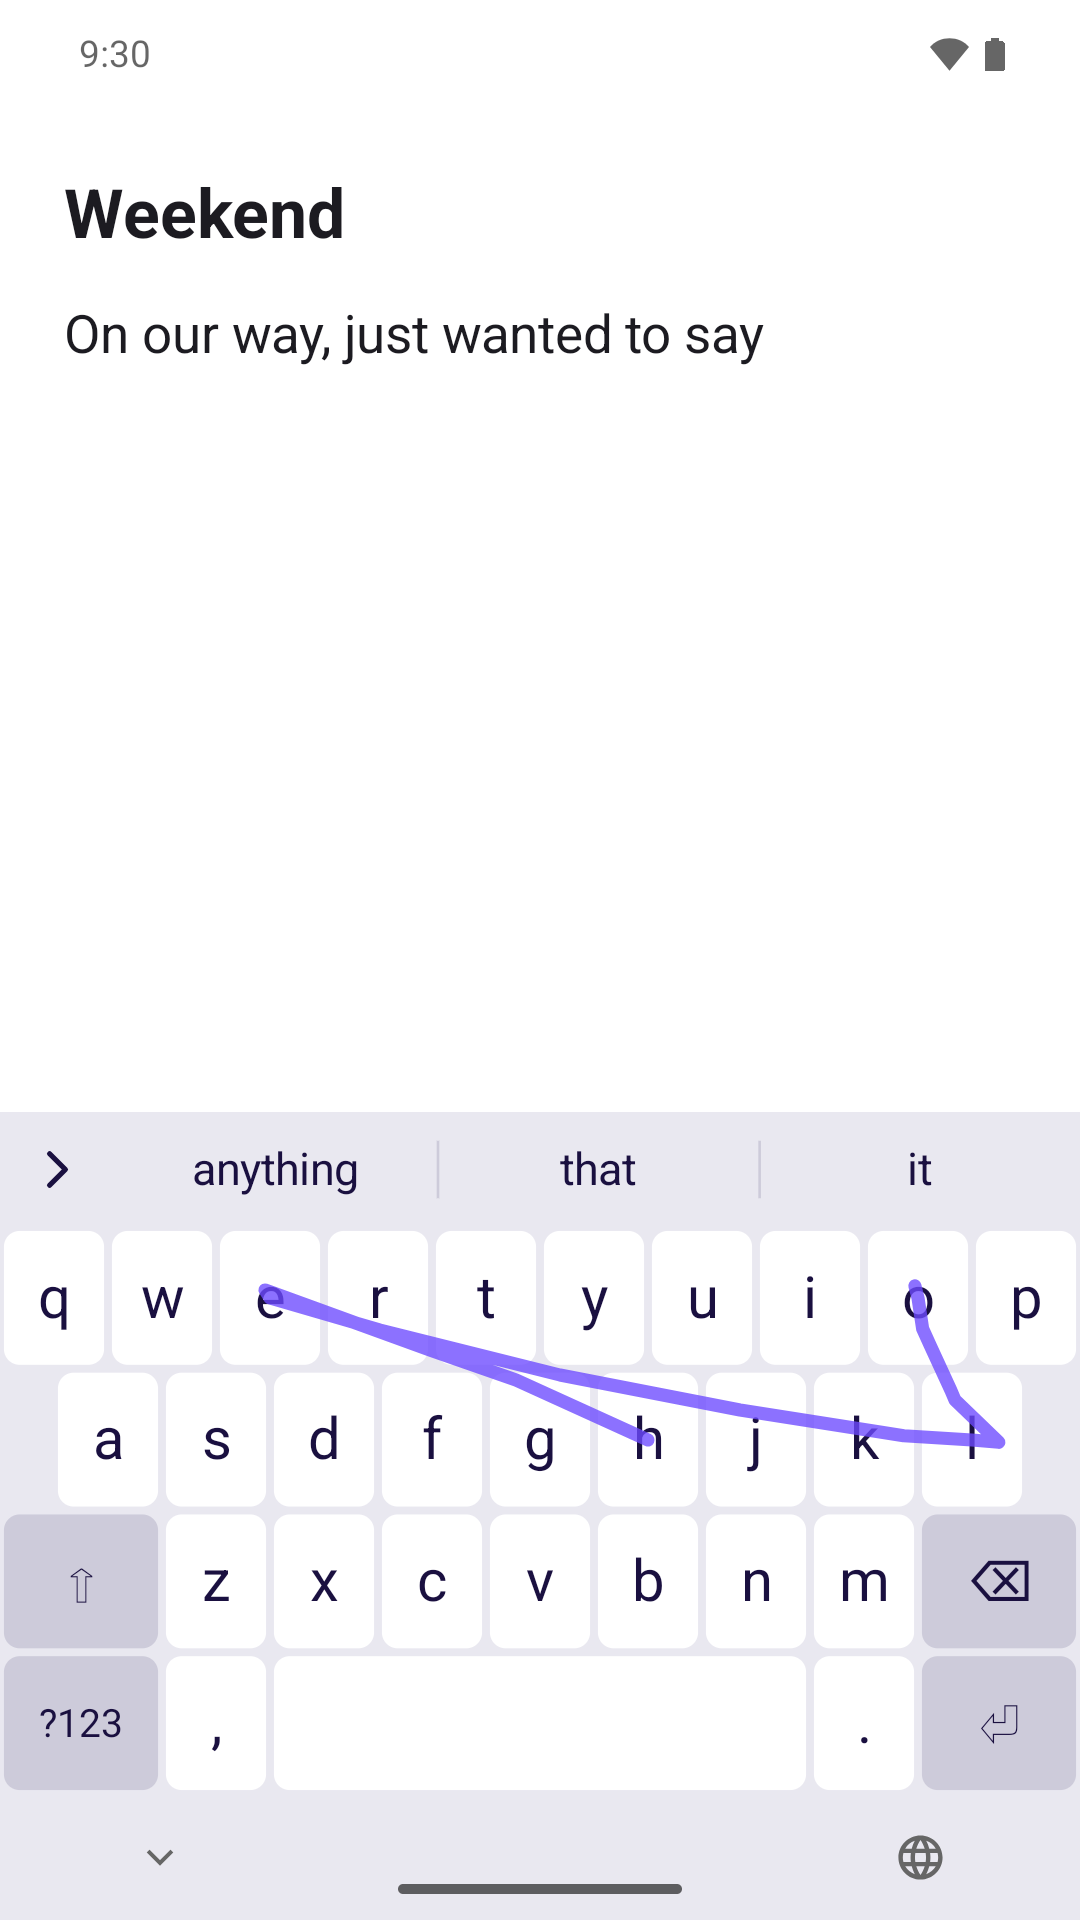
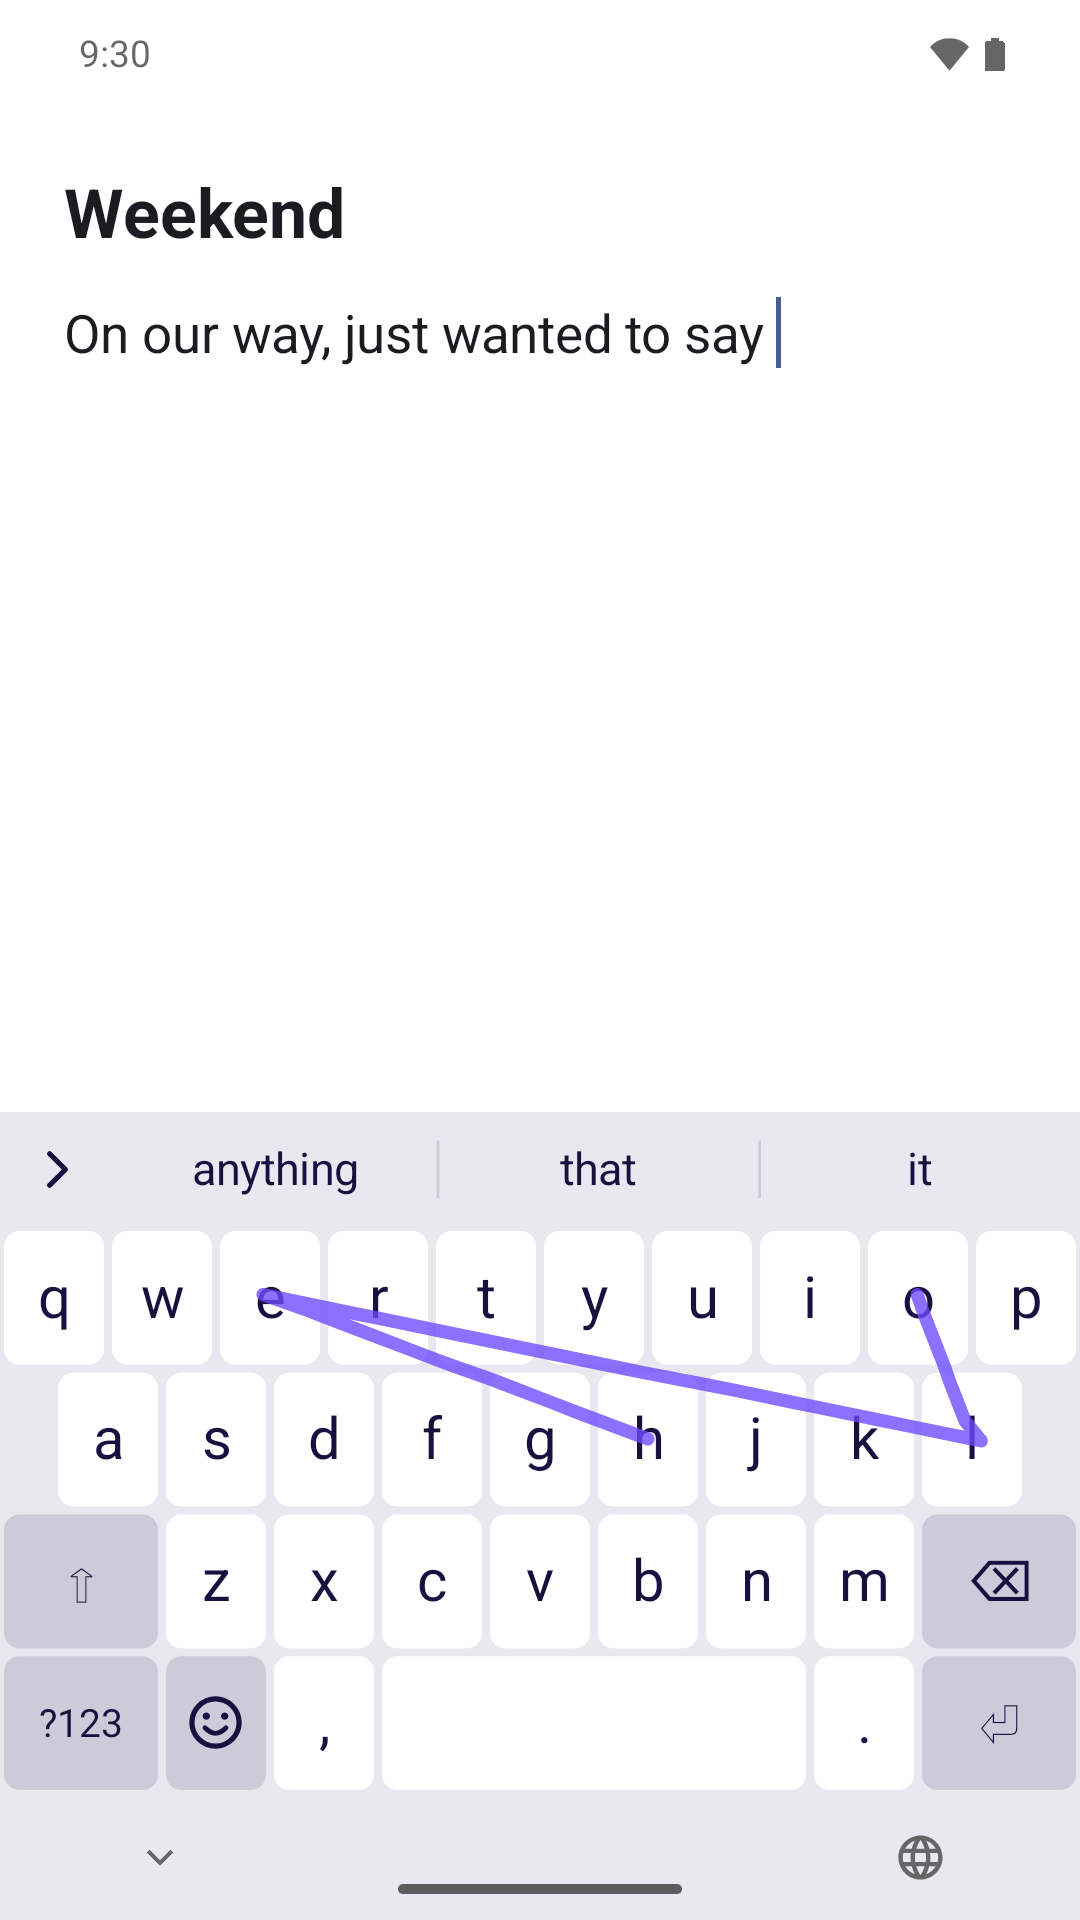
0.2.2
Snapshot-Of: keyboard@83480f55ba72d6fc2c3aac5627741e8057a2f20d

Changed region(s): [[0.3056, 0.6562, 0.9167, 0.75], [0.1528, 0.8438, 0.2444, 0.9375], [0.7028, 0.1562, 0.7333, 0.1875]]

diff --git a/android/app/src/main/kotlin/com/pingolin/keyboard/EmojiQueryView.kt b/android/app/src/main/kotlin/com/pingolin/keyboard/EmojiQueryView.kt
@@ -1,0 +1,92 @@
+// SPDX-FileCopyrightText: 2026 Pingolin LLC
+// SPDX-License-Identifier: GPL-3.0-or-later
+
+package com.pingolin.keyboard
+
+import android.annotation.SuppressLint
+import android.content.Context
+import android.graphics.Canvas
+import android.graphics.Paint
+import android.view.MotionEvent
+import android.view.accessibility.AccessibilityNodeInfo
+import android.widget.EditText
+import android.widget.TextView
+
+/**
+ * What is typed into the search over emoji, with a cursor. A tap or a drag
+ * moves it. Not an EditText: the keyboard's window never has the focus one
+ * needs, and the keys write into [EmojiQuery].
+ */
+@SuppressLint("ViewConstructor") // only EmojiSearchBar creates it, in code
+class EmojiQueryView(context: Context, private val onCursor: (Int) -> Unit) : TextView(context) {
+    private val caret = Paint()
+    private val caretWidth = CARET_DP * resources.displayMetrics.density
+    private var cursor = 0
+    private var blinkOn = true
+    private val blink = object : Runnable {
+        override fun run() {
+            blinkOn = !blinkOn
+            invalidate()
+            postDelayed(this, BLINK_MS)
+        }
+    }
+
+    fun setCaretColor(color: Int) {
+        caret.color = color
+    }
+
+    /** Shows [typed] with the cursor at [cursor]. */
+    fun show(typed: String, cursor: Int) {
+        if (typed != text.toString()) text = typed
+        this.cursor = cursor
+        restartBlink()
+    }
+
+    /** On at once after every change, so it is seen to move. */
+    private fun restartBlink() {
+        removeCallbacks(blink)
+        blinkOn = true
+        invalidate()
+        if (isShown) postDelayed(blink, BLINK_MS)
+    }
+
+    override fun onVisibilityAggregated(isVisible: Boolean) {
+        super.onVisibilityAggregated(isVisible)
+        if (isVisible) restartBlink() else removeCallbacks(blink)
+    }
+
+    override fun onDraw(canvas: Canvas) {
+        super.onDraw(canvas)
+        val line = layout ?: return
+        if (!blinkOn) return
+        val x = totalPaddingLeft + line.getPrimaryHorizontal(cursor.coerceIn(0, line.text.length))
+        val top = totalPaddingTop + line.getLineTop(0)
+        val bottom = totalPaddingTop + line.getLineBottom(0)
+        canvas.drawRect(x - caretWidth / 2, top.toFloat(), x + caretWidth / 2, bottom.toFloat(), caret)
+    }
+
+    override fun onTouchEvent(event: MotionEvent): Boolean {
+        when (event.actionMasked) {
+            MotionEvent.ACTION_DOWN, MotionEvent.ACTION_MOVE -> onCursor(getOffsetForPosition(event.x, event.y))
+            MotionEvent.ACTION_UP -> performClick()
+        }
+        return true
+    }
+
+    /** A touch is a click too, for TalkBack. */
+    override fun performClick(): Boolean = super.performClick()
+
+    /** To TalkBack it is a field. */
+    override fun getAccessibilityClassName(): CharSequence = EditText::class.java.name
+
+    override fun onInitializeAccessibilityNodeInfo(info: AccessibilityNodeInfo) {
+        super.onInitializeAccessibilityNodeInfo(info)
+        info.isEditable = true
+        info.setTextSelection(cursor, cursor)
+    }
+
+    private companion object {
+        const val BLINK_MS = 500L
+        const val CARET_DP = 2f
+    }
+}

diff --git a/android/app/src/main/kotlin/com/pingolin/keyboard/EmojiRecents.kt b/android/app/src/main/kotlin/com/pingolin/keyboard/EmojiRecents.kt
@@ -127,35 +127,62 @@ object EmojiRows {
     }
 }
 
-/** What is typed into the search over emoji. Pure, so it runs in plain JVM tests. */
+/** What is typed into the search over emoji, and where. Pure, so it runs in plain JVM tests. */
 class EmojiQuery {
     private val text = StringBuilder()
+
+    /** Where the next letter goes. */
+    var cursor = 0
+        private set
 
     override fun toString(): String = text.toString()
 
     val isEmpty: Boolean get() = text.isEmpty()
 
-    /** Types [s]. Only what names are made of counts: letters, digits, marks, spaces, apostrophes and hyphens. */
+    /**
+     * Types [s] at the cursor. Only what names are made of counts: letters,
+     * digits, marks, spaces, apostrophes and hyphens.
+     */
     fun type(s: String) {
         if (text.length + s.length > MAX) return
         s.codePoints().forEach { cp ->
-            val space = cp == ' '.code
-            // No space at the start, or after another.
-            if (space && (text.isEmpty() || text.last() == ' ')) return@forEach
-            if (space || isNamePart(cp)) text.appendCodePoint(cp)
+            when {
+                isNamePart(cp) -> insert(cp)
+                cp != ' '.code -> Unit
+                // No space at the start, or next to another.
+                cursor == 0 || text[cursor - 1] == ' ' -> Unit
+                cursor < text.length && text[cursor] == ' ' -> cursor++
+                else -> insert(cp)
+            }
         }
     }
 
-    /** Deletes the last character, with its marks. */
+    private fun insert(cp: Int) {
+        text.insert(cursor, String(Character.toChars(cp)))
+        cursor += Character.charCount(cp)
+    }
+
+    /** Deletes the character before the cursor, with its marks. */
     fun delete() {
-        while (text.isNotEmpty()) {
-            val cp = text.codePointBefore(text.length)
-            text.setLength(text.length - Character.charCount(cp))
-            if (!isMark(cp)) return
+        while (cursor > 0) {
+            val cp = text.codePointBefore(cursor)
+            text.delete(cursor - Character.charCount(cp), cursor)
+            cursor -= Character.charCount(cp)
+            if (!isMark(cp)) break
         }
+        if (cursor == 0 && text.startsWith(" ")) text.deleteCharAt(0)
     }
 
-    fun clear() = text.setLength(0)
+    /** Puts the cursor at [offset], or after the character [offset] is inside of. */
+    fun moveTo(offset: Int) {
+        cursor = offset.coerceIn(0, text.length)
+        while (cursor < text.length && (text[cursor].isLowSurrogate() || isMark(text.codePointAt(cursor)))) cursor++
+    }
+
+    fun clear() {
+        text.setLength(0)
+        cursor = 0
+    }
 
     private fun isNamePart(cp: Int): Boolean =
         Character.isLetterOrDigit(cp) || isMark(cp) || cp == '\''.code || cp == 0x2019 || cp == '-'.code

diff --git a/android/app/src/test/kotlin/com/pingolin/keyboard/EmojiRecentsTest.kt b/android/app/src/test/kotlin/com/pingolin/keyboard/EmojiRecentsTest.kt
@@ -126,6 +126,65 @@ class EmojiRecentsTest {
     }
 
     @Test
+    fun theQueryIsEditedAtItsCursor() {
+        val query = EmojiQuery()
+        query.type("hart")
+        assertEquals(4, query.cursor)
+        query.moveTo(1)
+        query.type("e")
+        assertEquals("heart" to 2, query.toString() to query.cursor)
+        query.delete()
+        assertEquals("hart" to 1, query.toString() to query.cursor)
+        query.delete()
+        assertEquals("art" to 0, query.toString() to query.cursor)
+        query.delete()
+        assertEquals("art" to 0, query.toString() to query.cursor)
+        // Out of the text, the nearest end.
+        query.moveTo(99)
+        query.type("s")
+        assertEquals("arts" to 4, query.toString() to query.cursor)
+        query.moveTo(-3)
+        query.type("p")
+        assertEquals("parts" to 1, query.toString() to query.cursor)
+        query.clear()
+        assertEquals("" to 0, query.toString() to query.cursor)
+    }
+
+    @Test
+    fun theQueryHasNoSpacesTooMany() {
+        val query = EmojiQuery()
+        query.type("red heart")
+        query.moveTo(3)
+        query.type(" ")
+        // Over the space that is there, not a second one.
+        assertEquals("red heart" to 4, query.toString() to query.cursor)
+        query.type(" ")
+        assertEquals("red heart" to 4, query.toString() to query.cursor)
+        query.moveTo(3)
+        repeat(3) { query.delete() }
+        assertEquals("heart" to 0, query.toString() to query.cursor)
+        query.type(" ")
+        assertEquals("heart" to 0, query.toString() to query.cursor)
+        query.moveTo(2)
+        query.type(" ")
+        assertEquals("he art" to 3, query.toString() to query.cursor)
+    }
+
+    @Test
+    fun theCursorIsNeverInsideACharacter() {
+        val query = EmojiQuery()
+        query.type("a\uD835\uDC00e\u0301b")
+        query.moveTo(2)
+        assertEquals(3, query.cursor)
+        query.moveTo(4)
+        assertEquals(5, query.cursor)
+        query.delete()
+        assertEquals("a\uD835\uDC00b" to 3, query.toString() to query.cursor)
+        query.delete()
+        assertEquals("ab" to 1, query.toString() to query.cursor)
+    }
+
+    @Test
     fun theQueryHoldsWhatNamesAreMadeOf() {
         val query = EmojiQuery()
         assertTrue(query.isEmpty)

diff --git a/android/app/src/main/kotlin/com/pingolin/keyboard/EmojiSearchBar.kt b/android/app/src/main/kotlin/com/pingolin/keyboard/EmojiSearchBar.kt
@@ -36,11 +36,14 @@ class EmojiSearchBar(
         fun onEmoji(text: String)
 
         fun onClear()
+
+        /** The query was touched at [offset]. */
+        fun onCursor(offset: Int)
     }
 
     private val density = resources.displayMetrics.density
     private val back = icon(R.drawable.ic_back, R.string.emoji_back) { listener.onBack() }
-    private val query = TextView(context).apply {
+    private val query = EmojiQueryView(context) { listener.onCursor(it) }.apply {
         setTextSize(TypedValue.COMPLEX_UNIT_SP, 17f)
         gravity = Gravity.CENTER_VERTICAL
         setSingleLine()
@@ -93,10 +96,11 @@ class EmojiSearchBar(
             setColor(theme.key)
             cornerRadius = 8 * density
         }
+        query.setCaretColor(theme.accent)
         query.setTextColor(theme.label)
         query.setHintTextColor(ColorUtils.blendARGB(theme.label, theme.key, 0.3f))
         nothing.setTextColor(theme.label)
-        query.text = ""
+        query.show("", 0)
         nothing.visibility = GONE
         results.removeAllViews() // made for other colors
         val row = dp(EmojiCellView.SIZE_DP)
@@ -112,9 +116,15 @@ class EmojiSearchBar(
         visibility = VISIBLE
     }
 
-    /** What is [typed] so far, and the emoji to offer: what matches, or the recent ones before a search. */
-    fun update(typed: String, cells: List<EmojiCell>) {
-        query.text = typed
+    /** The cursor, where the next letter goes. */
+    fun setCursor(typed: String, cursor: Int) = query.show(typed, cursor)
+
+    /**
+     * What is [typed] so far, with the cursor, and the emoji to offer: what
+     * matches, or the recent ones before a search.
+     */
+    fun update(typed: String, cursor: Int, cells: List<EmojiCell>) {
+        query.show(typed, cursor)
         val none = typed.isNotBlank() && cells.isEmpty()
         nothing.visibility = if (none) VISIBLE else GONE
         scroll.visibility = if (none) GONE else VISIBLE

diff --git a/android/app/src/main/kotlin/com/pingolin/keyboard/KeyboardService.kt b/android/app/src/main/kotlin/com/pingolin/keyboard/KeyboardService.kt
@@ -604,6 +604,11 @@ class KeyboardService : InputMethodService() {
             emojiQuery.clear()
             updateSearch()
         }
+
+        override fun onCursor(offset: Int) {
+            emojiQuery.moveTo(offset)
+            emojiSearch?.setCursor(emojiQuery.toString(), emojiQuery.cursor)
+        }
     }
 
     /** The keys type into the search over emoji. */
@@ -665,7 +670,7 @@ class KeyboardService : InputMethodService() {
             emojiQuery.isEmpty -> tables.recent(emojiStore.recents)
             else -> tables.search(emojiQuery.toString())
         }
-        emojiSearch?.update(emojiQuery.toString(), cells)
+        emojiSearch?.update(emojiQuery.toString(), emojiQuery.cursor, cells)
     }
 
     private fun onSearchKey(action: KeyAction) {
